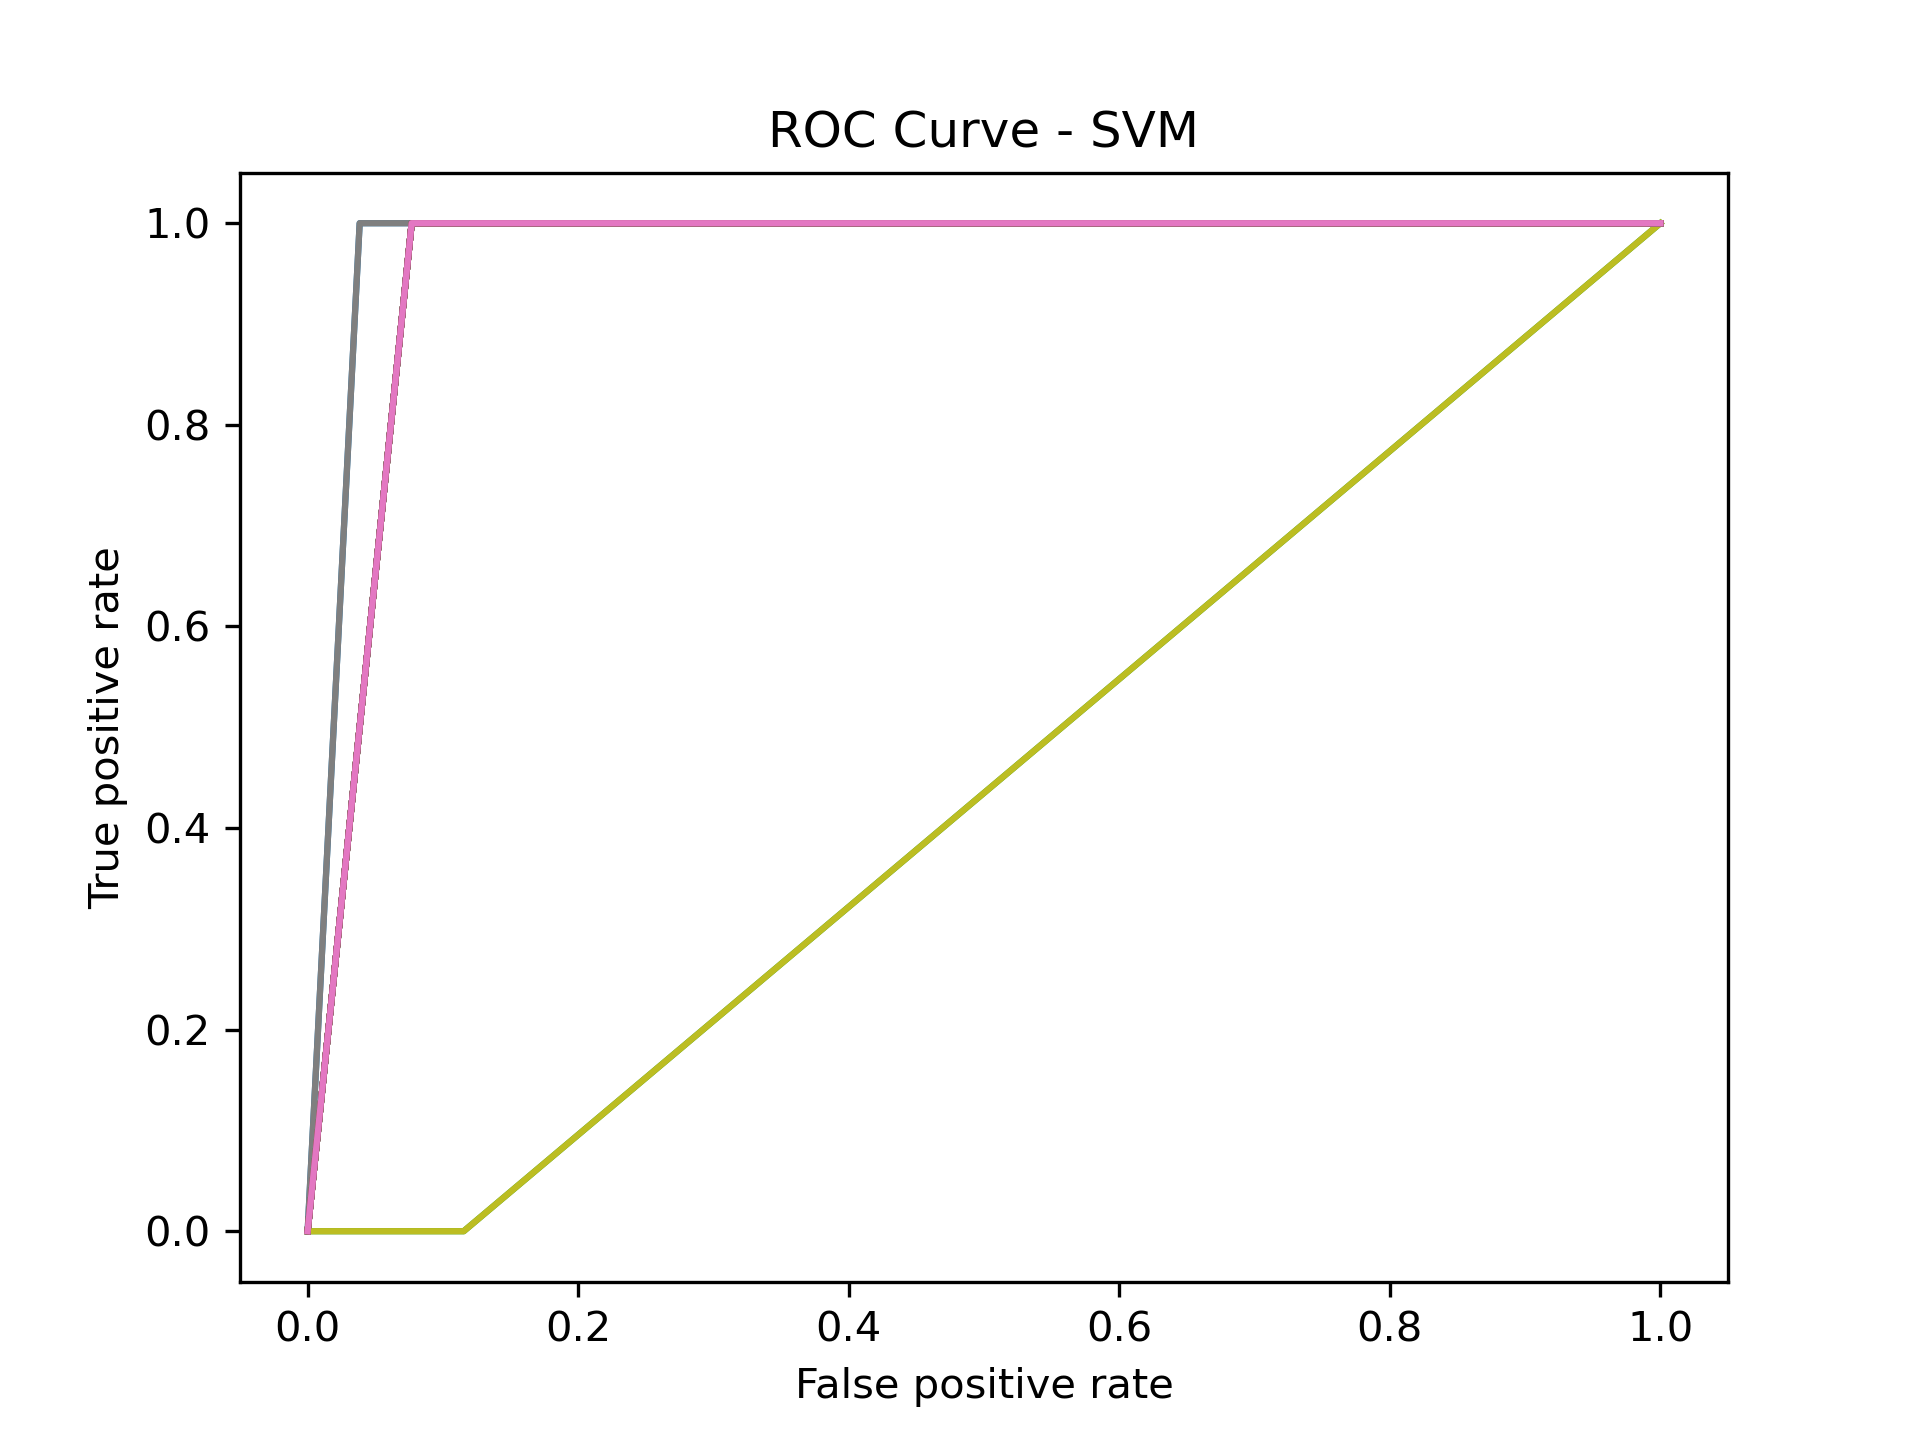
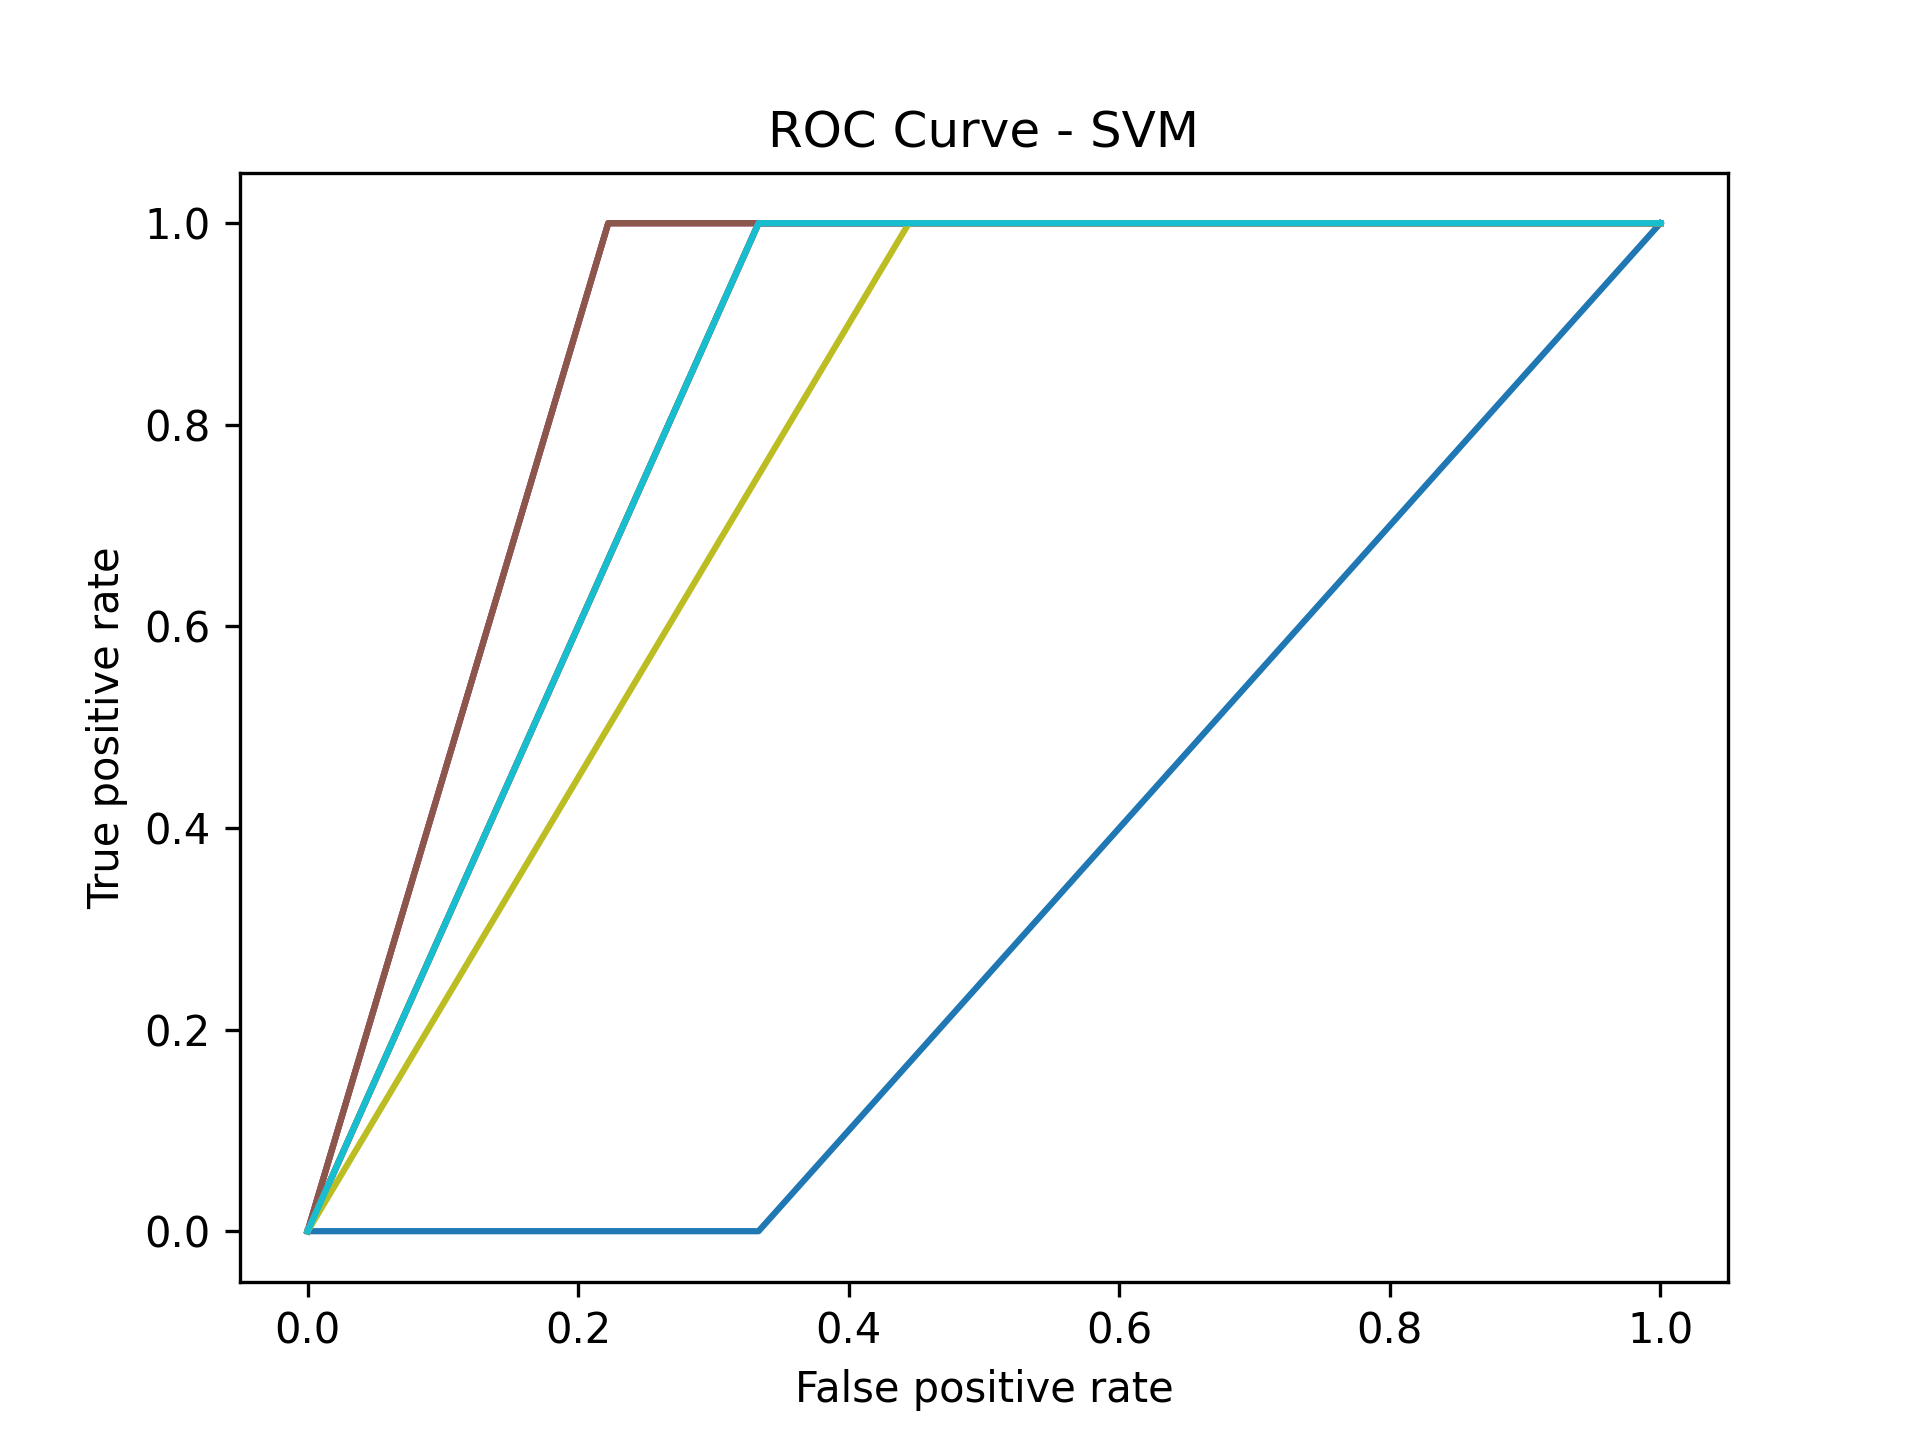
changed some pics and detection params

diff --git a/detectFace.py b/detectFace.py
@@ -93,7 +93,7 @@ def read_images_from_folder(folder):
                     # cv2.waitKey(0)
 
                     # find and crop the face from the aligned image
-                    face = face_cascade.detectMultiScale(rotated, 1.03, 5)
+                    face = face_cascade.detectMultiScale(rotated, 1.1, 5)
                     for (x, y, w, h) in face:
                         if w >= h:
                             h = w
@@ -105,9 +105,12 @@ def read_images_from_folder(folder):
                     cropped_face = cv2.resize(cropped_face, (100, 100))
                     face_float = np.float32(cropped_face)
 
-                image_list.append(face_float.flatten('C'))
-                # label_list.append(os.path.splitext(file_path)[0]) # print full image name
-                label_list.append(os.path.splitext(file_path)[0].split("_")[0])  # print only name
+                    image_list.append(face_float.flatten('C'))
+                    # label_list.append(os.path.splitext(file_path)[0]) # print full image name
+                    label_list.append(os.path.splitext(file_path)[0].split("_")[0])  # print only name
+
+                else:
+                    print(os.path.splitext(file_path)[0], "does not have a face")
 
     image_list = np.array(image_list)
     image_list = image_list.transpose()
@@ -200,7 +203,7 @@ if __name__ == '__main__':
     model = SVC(kernel='linear', probability=True)
     model.fit(transformed_data.T, labels)
     # read test image
-    test_data, test_labels = read_images_from_folder("test")
+    test_data, test_labels = read_images_from_folder("tilted")
     adjusted_test_data = test_data - data.mean(axis=1, keepdims=True)
 
     # perform inner product with top n eigenvectors and the adjusted test data

diff --git a/dlib_detection.py b/dlib_detection.py
@@ -102,12 +102,13 @@ def read_images_from_folder(folder):
 
                     cropped_face = rotated[y + 1:y + h, x + 1:x + w]
                     cropped_face = cv2.resize(cropped_face, (100, 100))
-                    # cv2.imshow("rotated", cropped_face)
-                    # cv2.waitKey(0)
+                    cv2.imshow("rotated", cropped_face)
+                    cv2.waitKey(0)
 
                 else:
                     print(os.path.splitext(file_path)[0], "does not have a face")
 
 if __name__ == '__main__':
     read_images_from_folder("tilted")
-    # read_images_from_folder("testface")
+    # read_images_from_folder("test")
+    # read_images_from_folder("train")
